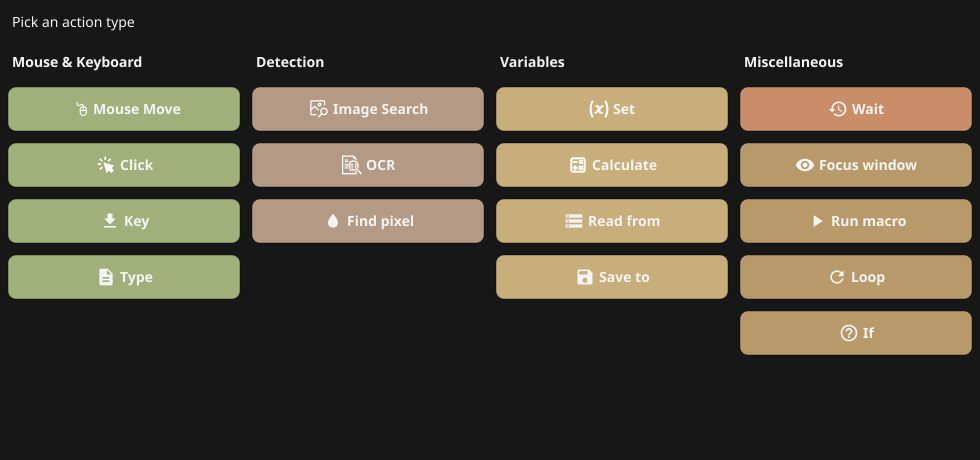
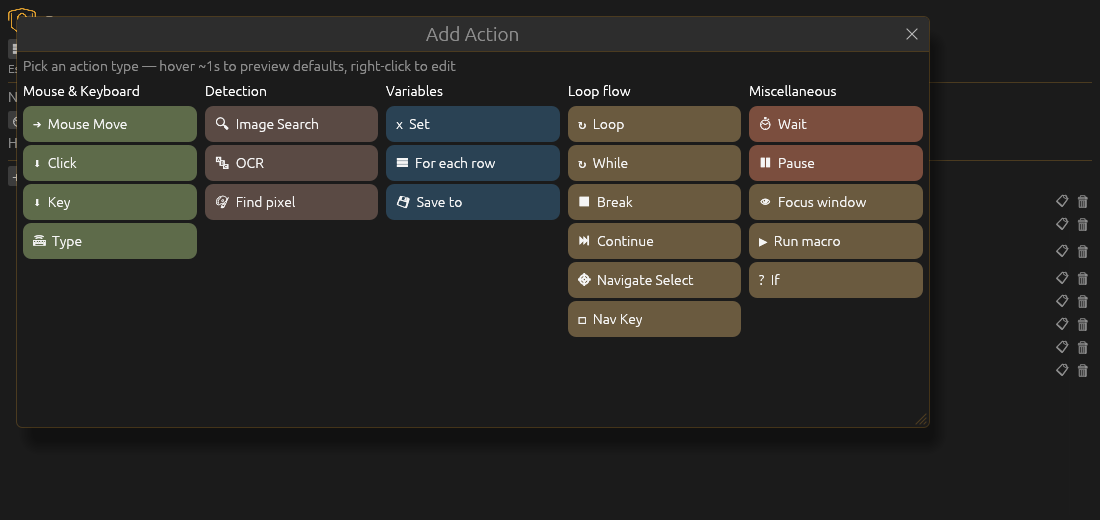
Fix Hugo build when upstream drops demo screenshots.
Align Demo/Features with the three current Sqyre docs images, sync
static assets, and guard the image render hook so unresolved paths
no longer fail CI.

diff --git a/layouts/_markup/render-image.html b/layouts/_markup/render-image.html
@@ -1,0 +1,199 @@
+{{- /* Based on https://www.veriphor.com/articles/link-and-image-render-hooks/#image-render-hook */}}
+
+{{- /* Last modified: 2023-12-09T16:29:48-08:00 */}}
+
+{{- /*
+Copyright 2023 Veriphor LLC
+
+Licensed under the Apache License, Version 2.0 (the "License"); you may not
+use this file except in compliance with the License. You may obtain a copy of
+the License at
+
+https://www.apache.org/licenses/LICENSE-2.0
+
+Unless required by applicable law or agreed to in writing, software
+distributed under the License is distributed on an "AS IS" BASIS, WITHOUT
+WARRANTIES OR CONDITIONS OF ANY KIND, either express or implied. See the
+License for the specific language governing permissions and limitations under
+the License.
+*/}}
+
+{{- /*
+This render hook resolves internal destinations by looking for a matching:
+
+  1. Page resource (an image in the current page bundle)
+  2. Section resource (an image in the current section)
+  3. Global resource (an image in the assets directory)
+
+It skips the section resource lookup if the current page is a leaf bundle, and
+captures external destinations as resources for local hosting.
+
+You must place global resources in the assets directory. If you have placed
+your resources in the static directory, and you are unable or unwilling to move
+them, you must mount the static directory to the assets directory by including
+both of these entries in your site configuration:
+
+  [[module.mounts]]
+  source = 'assets'
+  target = 'assets'
+
+  [[module.mounts]]
+  source = 'static'
+  target = 'assets'
+
+By default, if this render hook is unable to resolve a destination, it passes
+the destination through without modification. To emit a warning or error, set
+the error level in your site configuration:
+
+  [params.render_hooks.image]
+  errorLevel = 'warning' # ignore (default), warning, or error (fails the build)
+
+Image render hooks are also used to:
+
+  - Resize, crop, rotate, filter, and convert images
+  - Build responsive images using srcset and sizes attributes
+  - Wrap images inside of a picture element
+  - Transform standalone images into figure elements
+
+To perform any of these operations, you can “hook” into this render hook with a
+partial template, after the render hook has captured the resource.
+
+@context {map} Attributes The markdown attributes, available if (a) markup.goldmark.parser.attribute.block is true, and (b) markup.goldmark.parser.wrapStandAloneImageWithinParagraph is false in site configuration.
+@context {string} Destination The image destination.
+@context {bool} IsBlock Returns true if a standalone image is not wrapped within a paragraph element.
+@context {int} Ordinal The zero-based ordinal of the image on the page.
+@context {page} Page A reference to the page containing the image.
+@context {string} PlainText The image description as plain text.
+@context {string} Text The image description.
+@context {string} Title The image title.
+
+@returns {template.html}
+*/}}
+
+{{- /* Initialize. */}}
+{{- $renderHookName := "image" }}
+
+{{- /* Verify minimum required version. */}}
+{{- $minHugoVersion := "0.114.0" }}
+{{- if lt hugo.Version $minHugoVersion }}
+  {{- errorf "The %q render hook requires Hugo v%s or later." $renderHookName $minHugoVersion }}
+{{- end }}
+
+{{- /* Error level when unable to resolve destination: ignore, warning, or error. */}}
+{{- $errorLevel := or site.Params.render_hooks.image.errorLevel "ignore" | lower }}
+
+{{- /* Validate error level. */}}
+{{- if not (in (slice "ignore" "warning" "error") $errorLevel) }}
+  {{- errorf "The %q render hook is misconfigured. The errorLevel %q is invalid. Please check your site configuration." $renderHookName $errorLevel }}
+{{- end }}
+
+{{- /* Determine content path for warning and error messages. */}}
+{{- $contentPath := "" }}
+{{- with .Page.File }}
+  {{- $contentPath = .Path }}
+{{- else }}
+  {{- $contentPath = .Path }}
+{{- end }}
+
+{{- /* Parse destination. */}}
+{{- $u := urls.Parse .Destination }}
+
+{{- /* Set common message. */}}
+{{- $msg := printf "The %q render hook was unable to resolve the destination %q in %s" $renderHookName $u.String $contentPath }}
+
+{{- /* Get image resource. */}}
+{{- $r := "" }}
+{{- if $u.IsAbs }}
+  {{- with try (resources.GetRemote $u.String) }}
+    {{- with .Err }}
+      {{- if eq $errorLevel "warning" }}
+        {{- warnf "%s. See %s" .Err $contentPath }}
+      {{- else if eq $errorLevel "error" }}
+        {{- errorf "%s. See %s" .Err $contentPath }}
+      {{- end }}
+    {{- else with .Value }}
+      {{- /* Destination is a remote resource. */}}
+      {{- $r = . }}
+    {{- end }}
+  {{- else }}
+    {{- if eq $errorLevel "warning" }}
+      {{- warnf $msg }}
+    {{- else if eq $errorLevel "error" }}
+      {{- errorf $msg }}
+    {{- end }}
+  {{- end }}
+{{- else }}
+  {{- with .Page.Resources.Get (strings.TrimPrefix "./" $u.Path) }}
+    {{- /* Destination is a page resource. */}}
+    {{- $r = . }}
+  {{- else }}
+    {{- with (and (ne .Page.BundleType "leaf") (.Page.CurrentSection.Resources.Get (strings.TrimPrefix "./" $u.Path))) }}
+      {{- /* Destination is a section resource, and current page is not a leaf bundle. */}}
+      {{- $r = . }}
+    {{- else }}
+      {{- with resources.Get $u.Path }}
+        {{- /* Destination is a global resource. */}}
+        {{- $r = . }}
+      {{- else }}
+        {{- if eq $errorLevel "warning" }}
+          {{- warnf $msg }}
+        {{- else if eq $errorLevel "error" }}
+          {{- errorf $msg }}
+        {{- end }}
+      {{- end }}
+    {{- end }}
+  {{- end }}
+{{- end }}
+
+{{- /* Determine id attribute. */}}
+{{- $id := printf "h-rh-i-%d" .Ordinal }}
+{{- with .Attributes.id }}
+  {{- $id = . }}
+{{- end }}
+
+{{- /* Only process when the destination resolved to a resource. @thulite/images
+     otherwise calls .MediaType on the empty string and fails the build. */}}
+{{- with $r }}
+  {{/* Convert to webp. */}}
+  {{- if not (in (slice "gif" "svg") .MediaType.SubType) }}
+    {{- $r = .Resize (printf "%dx%d webp" .Width .Height) }}
+  {{- end }}
+
+  {{- if ne $r.MediaType.SubType "svg" }}
+  {{- /* Render image element. */ -}}
+  <img
+    src="{{ $r.RelPermalink }}"
+    width="{{ string $r.Width }}"
+    height="{{ string $r.Height }}"
+    decoding="{{ site.Params.thulite_images.defaults.decoding }}"
+    fetchpriority="{{ site.Params.thulite_images.defaults.fetchpriority }}"
+    loading="{{ site.Params.thulite_images.defaults.loading }}"
+    alt="{{ $.PlainText }}"
+    {{- with $.Title -}}title="{{ . }}"{{- end }}
+    id="{{ $id }}"
+  >
+  {{- else }}
+  <img
+    src="{{ $r.RelPermalink }}"
+    decoding="{{ site.Params.thulite_images.defaults.decoding }}"
+    fetchpriority="{{ site.Params.thulite_images.defaults.fetchpriority }}"
+    loading="{{ site.Params.thulite_images.defaults.loading }}"
+    alt="{{ $.PlainText }}"
+    {{- with $.Title -}}title="{{ . }}"{{- end }}
+    id="{{ $id }}"
+    class="markdown-svg"
+  >
+  {{- end }}
+{{- else }}
+  <img
+    src="{{ .Destination | safeURL }}"
+    alt="{{ .PlainText }}"
+    {{- with .Title -}}title="{{ . }}"{{- end }}
+    id="{{ $id }}"
+    decoding="{{ site.Params.thulite_images.defaults.decoding }}"
+    fetchpriority="{{ site.Params.thulite_images.defaults.fetchpriority }}"
+    loading="{{ site.Params.thulite_images.defaults.loading }}"
+  >
+{{- end }}
+
+{{- /**/ -}}

diff --git a/content/docs/features/_index.md b/content/docs/features/_index.md
@@ -2,7 +2,7 @@
 title: "Features"
 description: "Action types, screenshots, and tech stack for the Sqyre macro builder."
 date: 2025-03-09
-lastmod: 2026-06-30T00:00:00Z
+lastmod: 2026-07-20T00:00:00Z
 draft: false
 weight: 10
 toc: true
@@ -18,7 +18,7 @@ The overview and action summary below are synced from the **Sqyre** application 
 
 {{< upstream_readme_features >}}
 
-For **how to use the window** (toolbar, add/edit rules, copy/paste, execution), see [Docs](/docs/). For a walkthrough with GIFs, see [Demo](/demo/).
+For **how to use the window** (toolbar, add/edit rules, copy/paste, execution), see [Docs](/docs/). For screenshots and the browser editor, see [Demo](/demo/).
 
 ## Action details
 
@@ -72,12 +72,6 @@ Five columns — **Mouse & Keyboard**, **Detection**, **Variables**, **Loop flow
 
 ![Add action picker](images/sqyre/add-action-picker.png)
 
-### Action dialogs
+### Data editor
 
-| Category | |
-|----------|---|
-| Mouse & keyboard | [Move](images/sqyre/action-dialog-move.png) · [Click](images/sqyre/action-dialog-click.png) · [Key](images/sqyre/action-dialog-key.png) · [Type](images/sqyre/action-dialog-type.png) |
-| Detection | [Image search](images/sqyre/action-dialog-imagesearch.png) · [OCR](images/sqyre/action-dialog-ocr.png) · [Find pixel](images/sqyre/action-dialog-findpixel.png) |
-| Variables | [Set](images/sqyre/action-dialog-setvariable.png) · [Calculate](images/sqyre/action-dialog-calculate.png) · [For each row](images/sqyre/action-dialog-foreachrow.png) · [Save to](images/sqyre/action-dialog-savevariable.png) |
-| Loop flow | [Loop](images/sqyre/action-dialog-loop.png) |
-| Miscellaneous | [Wait](images/sqyre/action-dialog-wait.png) · [Focus window](images/sqyre/action-dialog-focuswindow.png) · [Run macro](images/sqyre/action-dialog-runmacro.png) |
+![Data editor](images/sqyre/data-editor.png)

diff --git a/content/demo.md b/content/demo.md
@@ -1,6 +1,6 @@
 ---
 title: "Demo"
-description: "Try the Sqyre browser editor, or browse screenshots of the main window, action picker, data editor, and a sample macro."
+description: "Try the Sqyre browser editor, or browse screenshots of the main window, action picker, and data editor."
 date: 2026-04-01T00:00:00Z
 lastmod: 2026-07-20T00:00:00Z
 draft: false
@@ -16,7 +16,7 @@ The **browser demo** is the WASM GUI editor published with each [Sqyre release](
 
 **[Launch the WASM demo →](/wasm/)**
 
-Screenshots and a short GIF from the Sqyre application (synced from the [application repo](https://github.com/luhrMan/sqyre)):
+Screenshots from the Sqyre application (synced from the [application repo](https://github.com/luhrMan/sqyre)):
 
 ## Main window
 
@@ -33,9 +33,5 @@ Five columns — **Mouse & Keyboard**, **Detection**, **Variables**, **Loop flow
 Reusable images, masks, points, search areas, and tabular data sources:
 
 ![Data editor](images/sqyre/data-editor.png)
-
-## Sample macro
-
-![Building a macro](images/sqyre/demo-macro.gif)
 
 For install and build steps, see [Build](/docs/build/). For action types and the tech stack, see [Features](/docs/features/).
